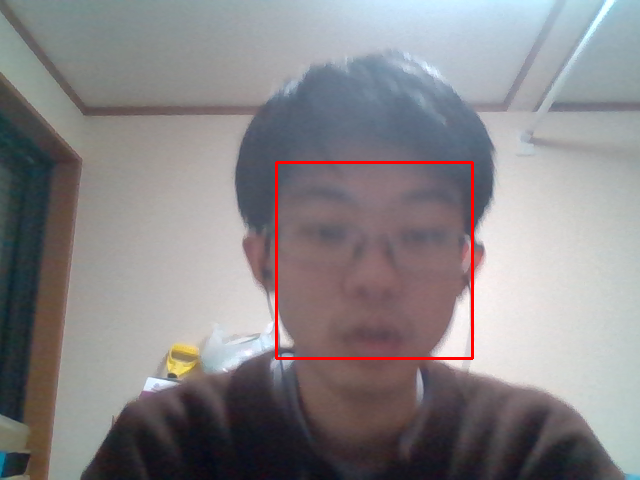
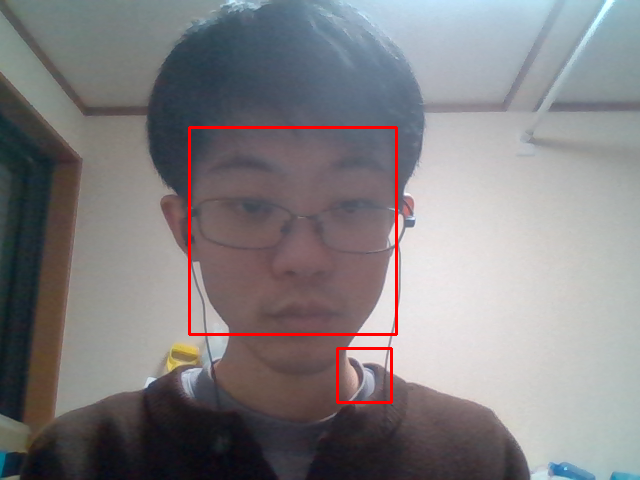
update next stage system

diff --git a/src/block_breaker.py b/src/block_breaker.py
@@ -18,6 +18,8 @@ CAMERA_MARGIN = 40
 FACE_MARGIN = 88
 SIZE_OF_MOSAIC = 32
 
+RIGHT_AREA_MARGIN = 30
+
 BLOCK_SIZE = int(8*64/SIZE_OF_MOSAIC)
 
 FACE_AREA_SIZE = SIZE_OF_MOSAIC*BLOCK_SIZE
@@ -29,7 +31,7 @@ RIGHT_AREA = Rect(LEFT_AREA.width, 0, 500, LEFT_AREA.height)
 SCREEN = Rect(0, 0, LEFT_AREA.width+RIGHT_AREA.width, LEFT_AREA.height)
 FACE_AREA = Rect((LEFT_AREA.width-FACE_AREA_SIZE)//2, (LEFT_AREA.width-FACE_AREA_SIZE)//2, FACE_AREA_SIZE, FACE_AREA_SIZE)
 
-TITLE, CAMERA, RECOGNIZE, GAME, POSED, CLEAR, OVER, AUTO = range(8)
+TITLE, CAMERA, RECOGNIZE, GAME, POSED, CLEAR, OVER, AUTO, NEXT = range(9)
 GAMEOVER = pygame.USEREVENT
 GAMECLEAR = pygame.USEREVENT+1
 
@@ -212,22 +214,44 @@ class Block(pygame.sprite.Sprite):
 # スコアのクラス
 class Score():
     def __init__(self, x, y):
-        self.sysfont = pygame.font.SysFont("notosanscjksc", 20)
+        self.sysfont = pygame.font.SysFont("notosanscjksc", 30)
         self.score = 0
         (self.x, self.y) = (x, y)
     def draw(self, screen):
-        img = self.sysfont.render("SCORE:"+str(self.score), True, (255,255,250))
+        img = self.sysfont.render("スコア: "+str(self.score), True, (255,255,255))
         screen.blit(img, (self.x, self.y))
     def add_score(self, x):
         self.score += x
 
-# class Gauge():
-#     def __init__(self, x, y, balls):
-#         self.sysfont = pygame.font.SysFont("notosanscjksc", 40)
-#         self.balls = balls
-#         (self.x, self.y) = (x, y)
-#     def draw(self, screen):
+class Stage():
+    def __init__(self, x, y, detect_num):
+        self.sysfont = pygame.font.SysFont("notosanscjksc", 40)
+        self.detect_num = detect_num
+        self.stage_num = 1
+        self.text = self.sysfont.render("ステージ "+str(self.stage_num)+" / "+str(self.detect_num), True, (255,255,255))
+        self.rect = self.text.get_rect()
+        self.text = pygame.transform.rotozoom(self.text, 0, (RIGHT_AREA.width-RIGHT_AREA_MARGIN*2)/self.rect.width)
+        (self.x, self.y) = (x, y)
+    def draw(self, screen):
+        screen.blit(self.text, (self.x, self.y))
+    def next_stage(self):
+        self.stage_num += 1
+        self.text = self.sysfont.render("ステージ "+str(self.stage_num)+" / "+str(self.detect_num), True, (255,255,255))
+        self.rect = self.text.get_rect()
+        self.text = pygame.transform.rotozoom(self.text, 0, (RIGHT_AREA.width-RIGHT_AREA_MARGIN*2)/self.rect.width)
 
+class Gauge():
+    def __init__(self, x, y):
+        self.sysfont = pygame.font.SysFont("notosanscjksc", 30)
+        self.text = self.sysfont.render("ボール増殖ゲージ", True, (255,255,255))
+        self.rect = self.text.get_rect()
+        (self.x, self.y) = (x, y)
+    def draw(self, screen, hit_sum):
+        screen.blit(self.text, (self.x, self.y))
+        pygame.draw.rect(screen, (255,255,255), Rect(self.x, self.y+self.rect.height+10, 440, self.rect.height), 1)
+        if hit_sum > 10:
+            hit_sum = 10
+        pygame.draw.rect(screen, (255,255,255), Rect(self.x+2, self.y+self.rect.height+10+2, int((hit_sum/10)*436), self.rect.height-4))
 
 class Button():
     def __init__(self, x, y, size, pad, color, txtcolor, text, description1, description2, center=False):
@@ -327,14 +351,15 @@ class Camera():
         self.faces = []
         self.recognized = False
         self.face_num = 0
-        self.image_x = 0
-        self.image_y = 0
+        # self.image_x = 0
+        # self.image_y = 0
 
     def update(self):
         self.ret, self.frame = self.cap.read()
         if self.ret == False:
             print("cannot update video")
             exit(1)
+        self.frame = cv.imread("png/detect.png")
         self.recognition()
         self.surface = self.cvtToSurface(self.frame)
 
@@ -360,7 +385,7 @@ class Camera():
             self.copy2_frame = np.copy(self.frame)
             for x, y, w, h in self.faces:
                 cv.rectangle(self.frame, (x, y), (x + w, y + h), (0, 0, 255), 2)
-            cv.imwrite('png/detect.png', self.frame)
+            # cv.imwrite('png/detect.png', self.frame)
             self.recognized = True
         else:
             self.recognized = False
@@ -447,7 +472,8 @@ class block_breaker:
         Ball.containers = self.game_group, self.balls, self.game_group2
         Block.containers = self.game_group, self.blocks, self.game_group2
         self.paddle = Paddle("png/paddle.png")                                  # パドルの作成
-        self.score = Score(RIGHT_AREA.left+10, 10)                                          # スコアを画面(10, 10)に表示
+        self.score = Score(RIGHT_AREA.left+RIGHT_AREA_MARGIN, RIGHT_AREA_MARGIN+140)                                          # スコアを画面(10, 10)に表示
+        self.gauge = Gauge(RIGHT_AREA.left + RIGHT_AREA_MARGIN, RIGHT_AREA_MARGIN+210)
         Ball("png/rectangle.png", self.paddle, self.blocks, self.balls, self.score, 5, 135, 45)  # ボールを作成
         """POSED"""
         self.alpha_screen =pygame.Surface(SCREEN.size,flags=pygame.SRCALPHA) 
@@ -455,6 +481,8 @@ class block_breaker:
         """OVER"""
         """CLEAR"""
         self.finish_btn = Button(SCREEN.centerx, SCREEN.height * 0.7, 70, 16, (255, 0, 0), (255, 255, 255), "ゲーム終了", "", "", True)
+        """NEXT"""
+        self.next_btn = Button(SCREEN.centerx, SCREEN.height * 0.7, 70, 16, (255, 0, 0), (255, 255, 255), "次のステージ", "", "", True)
         """ループ開始"""
         self.game_state = TITLE                                             # ゲームの状態をTITLEにする
         self.fps = 60
@@ -479,7 +507,7 @@ class block_breaker:
             pass
         elif self.game_state == GAME:
             self.game_group.update()        # 全てのスプライトグループを更新
-        elif self.game_state == POSED or self.game_state == OVER or self.game_state == CLEAR:
+        elif self.game_state == POSED or self.game_state == OVER or self.game_state == CLEAR or self.game_state == NEXT:
             pass
         elif self.game_state == AUTO:
             self.game_group2.update()
@@ -513,10 +541,19 @@ class block_breaker:
             self.game_group2.draw(self.screen)
             self.paddle.auto_draw(self.screen)
             self.draw_right_area(self.screen)
+        elif self.game_state == NEXT:
+            self.next_btn.draw(self.screen)
         
     def draw_right_area(self, screen):
-        pygame.draw.rect(self.screen, (0,0,0), RIGHT_AREA)
-        self.score.draw(self.screen)        # スコアを描画
+        pygame.draw.rect(screen, (0,0,0), RIGHT_AREA)
+        self.stage.draw(screen)        
+        pygame.draw.line(screen, (255,255,255), (RIGHT_AREA.left + RIGHT_AREA_MARGIN, RIGHT_AREA_MARGIN+130), (SCREEN.width - RIGHT_AREA_MARGIN, RIGHT_AREA_MARGIN+130))
+        self.score.draw(screen)        
+        pygame.draw.line(screen, (255,255,255), (RIGHT_AREA.left + RIGHT_AREA_MARGIN, RIGHT_AREA_MARGIN+200), (SCREEN.width - RIGHT_AREA_MARGIN, RIGHT_AREA_MARGIN+200))
+        # hit_sum = 
+        # self.gauge.draw(screen, hit_sum)
+        
+
 
     def check_event(self):
         """イベントハンドラ"""
@@ -536,12 +573,16 @@ class block_breaker:
                 self.recognize_handler(event)
             elif self.game_state == GAME:
                 self.game_handler(event)
+                self.common_handler(event)
             elif self.game_state == POSED:
                 self.posed_handler(event)
             elif self.game_state == OVER or self.game_state == CLEAR:
                 self.finish_handler(event)
             elif self.game_state == AUTO:
                 self.auto_handler(event)
+                self.common_handler(event)
+            elif self.game_state == NEXT:
+                self.next_handler(event)
 
     def title_handler(self, event):
         """タイトル画面のイベントハンドラ"""
@@ -568,8 +609,9 @@ class block_breaker:
             self.camera.playgame_btn.invFlag()
             self.camera.reshoot_btn.invFlag()
             self.camera.create_block()
-            self.image_x = self.camera.image_x
-            self.image_y = self.camera.image_y
+            # self.image_x = self.camera.image_x
+            # self.image_y = self.camera.image_y
+            self.stage = Stage(RIGHT_AREA.left+RIGHT_AREA_MARGIN, RIGHT_AREA_MARGIN-10, self.detect_num)
             self.game_state = GAME
         elif self.camera.reshoot_btn.pushed(event) or (event.type == KEYDOWN and event.key == K_BACKSPACE):
             self.backspace_sound.play()
@@ -580,25 +622,9 @@ class block_breaker:
     
     def game_handler(self, event):
         """ゲーム画面のイベントハンドラ"""
-        if event.type == KEYDOWN and event.key == K_p:
-            self.posed_sound.play()
-            self.blit_alpah_screen("POSED")
-            self.game_state = POSED
-        elif event.type == KEYDOWN and event.key == K_a:
+        if event.type == KEYDOWN and event.key == K_a:
             self.fps = 120
             self.game_state = AUTO
-        elif event.type == GAMEOVER:
-            self.title.stop_bgm()
-            self.gameover_sound.play()
-            self.finish_btn.invFlag()
-            self.blit_alpah_screen("GAME OVER")
-            self.game_state = OVER
-        elif event.type == GAMECLEAR or (event.type == KEYDOWN and event.key == K_s):
-            self.title.stop_bgm()
-            self.gameclear_sound.play()
-            self.finish_btn.invFlag()
-            self.blit_alpah_screen("GAME CLEAR!")
-            self.game_state = CLEAR
         elif (event.type == KEYDOWN and event.key == K_SPACE) or pygame.mouse.get_pressed()[0] == 1:
             self.fps = 120
         else:
@@ -619,13 +645,16 @@ class block_breaker:
             exit(1)
 
     def auto_handler(self, event):
+        if event.type == KEYDOWN and event.key == K_a:
+            self.fps = 60
+            self.game_state = GAME
+        
+        
+    def common_handler(self, event):
         if event.type == KEYDOWN and event.key == K_p:
             self.posed_sound.play()
             self.blit_alpah_screen("POSED")
             self.game_state = POSED
-        elif event.type == KEYDOWN and event.key == K_a:
-            self.fps = 60
-            self.game_state = GAME
         elif event.type == GAMEOVER:
             self.title.stop_bgm()
             self.gameover_sound.play()
@@ -635,9 +664,34 @@ class block_breaker:
         elif event.type == GAMECLEAR or (event.type == KEYDOWN and event.key == K_s):
             self.title.stop_bgm()
             self.gameclear_sound.play()
-            self.finish_btn.invFlag()
-            self.blit_alpah_screen("GAME CLEAR!")
-            self.game_state = CLEAR
+            if self.stage.stage_num < self.detect_num:
+                self.next_btn.invFlag()
+                self.blit_alpah_screen("STAGE CLEAR!")
+                self.game_state = NEXT
+            else:
+                self.finish_btn.invFlag()
+                self.blit_alpah_screen("GAME CLEAR!")
+                self.game_state = CLEAR
+    
+    def next_handler(self, event):
+        if self.finish_btn.pushed(event)  or (event.type == KEYDOWN and event.key == K_SPACE):
+            self.stage.next_stage()
+            for ball in self.balls:
+                ball.rect.x = 100
+                ball.rect.y = SCREEN.height + 100
+                ball.dx = 0
+                ball.dy = 0
+                self.hit_sum = 0
+                self.balls.remove(ball)
+                self.game_group.remove(ball)
+                self.game_group2.remove(ball)
+            Ball("png/rectangle.png", self.paddle, self.blocks, self.balls, self.score, 5, 135, 45)  # ボールを作成
+            for block in self.blocks:
+                self.blocks.remove(block)
+                self.game_group.remove(block)
+                self.game_group2.remove(block)
+            self.camera.create_block()
+            self.game_state = GAME
 
     def blit_alpah_screen(self, txt):
         self.alpha_screen.fill((0,0,0,128))
